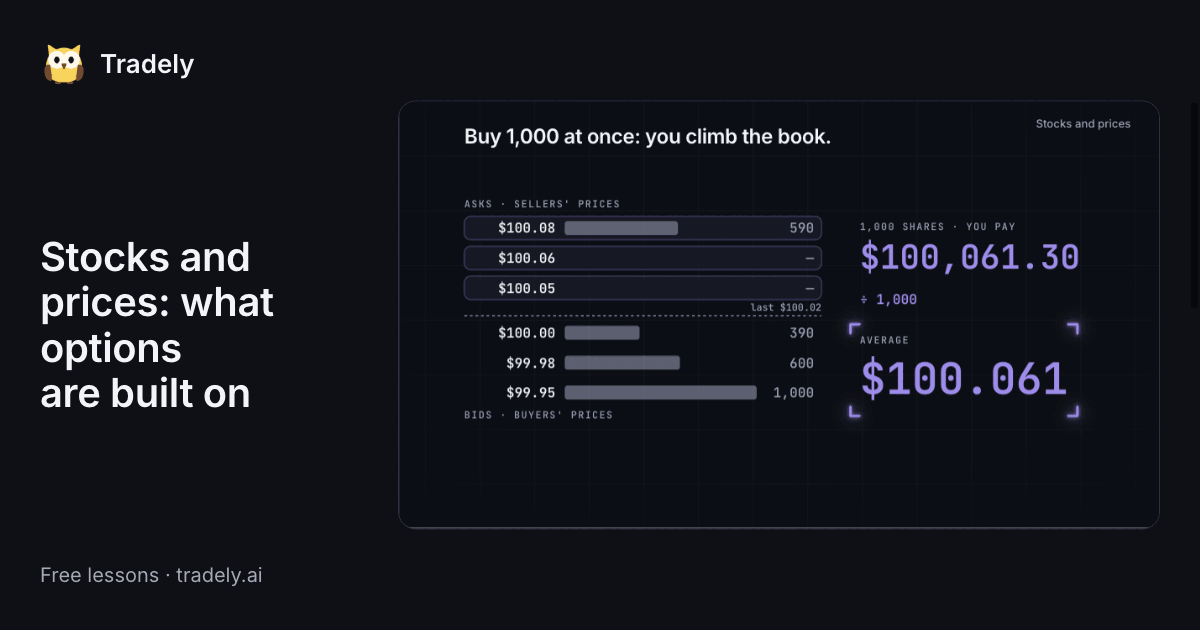
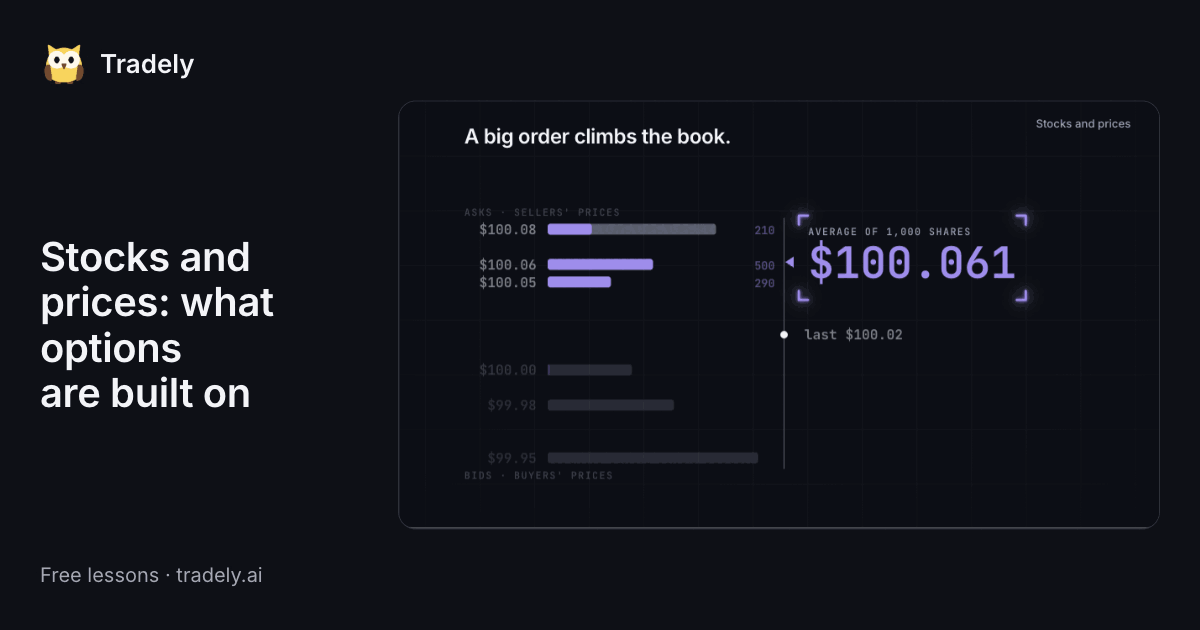
feat(learning): stocks lesson's share card shows the drawn film
The owner adopted the drawn version of the stocks film on 2026-11-19, after two blind jury rounds that did not prefer it (3 of 12 overall, 9 of 12 on a phone): the goal was less to read at once, which those juries do not measure. The four pilot commits are on main by fast-forward. The lesson's share card is re-rendered from the new hero frame, the price ladder with the average at $100.061, and the film's header note says whose decision the drawn form is.

diff --git a/apps/web/src/features/learning/lessons/stocks-and-prices-film.tsx b/apps/web/src/features/learning/lessons/stocks-and-prices-film.tsx
@@ -39,7 +39,8 @@ import {
  * $100.02, and the question: what do 10 shares cost right now? Every other film asks first;
  * here the question would use a word the learner has not met.
  *
- * The quote is a picture, not a table (a pilot, 2026-11-19). The book is a price ladder drawn
+ * The film is drawn, not tabulated: less to read at once, by the owner's decision of
+ * 2026-11-19 (runbook, section 9). The book is a price ladder drawn
  * to scale: each level is a bar at the height of its price, as long as its size, so the
  * spread is a real gap and the last price sits inside it. A rail beside the ladder shows
  * where a trade lands. The question's $100.02 flies onto the rail. Buy 10: the pointer lands
